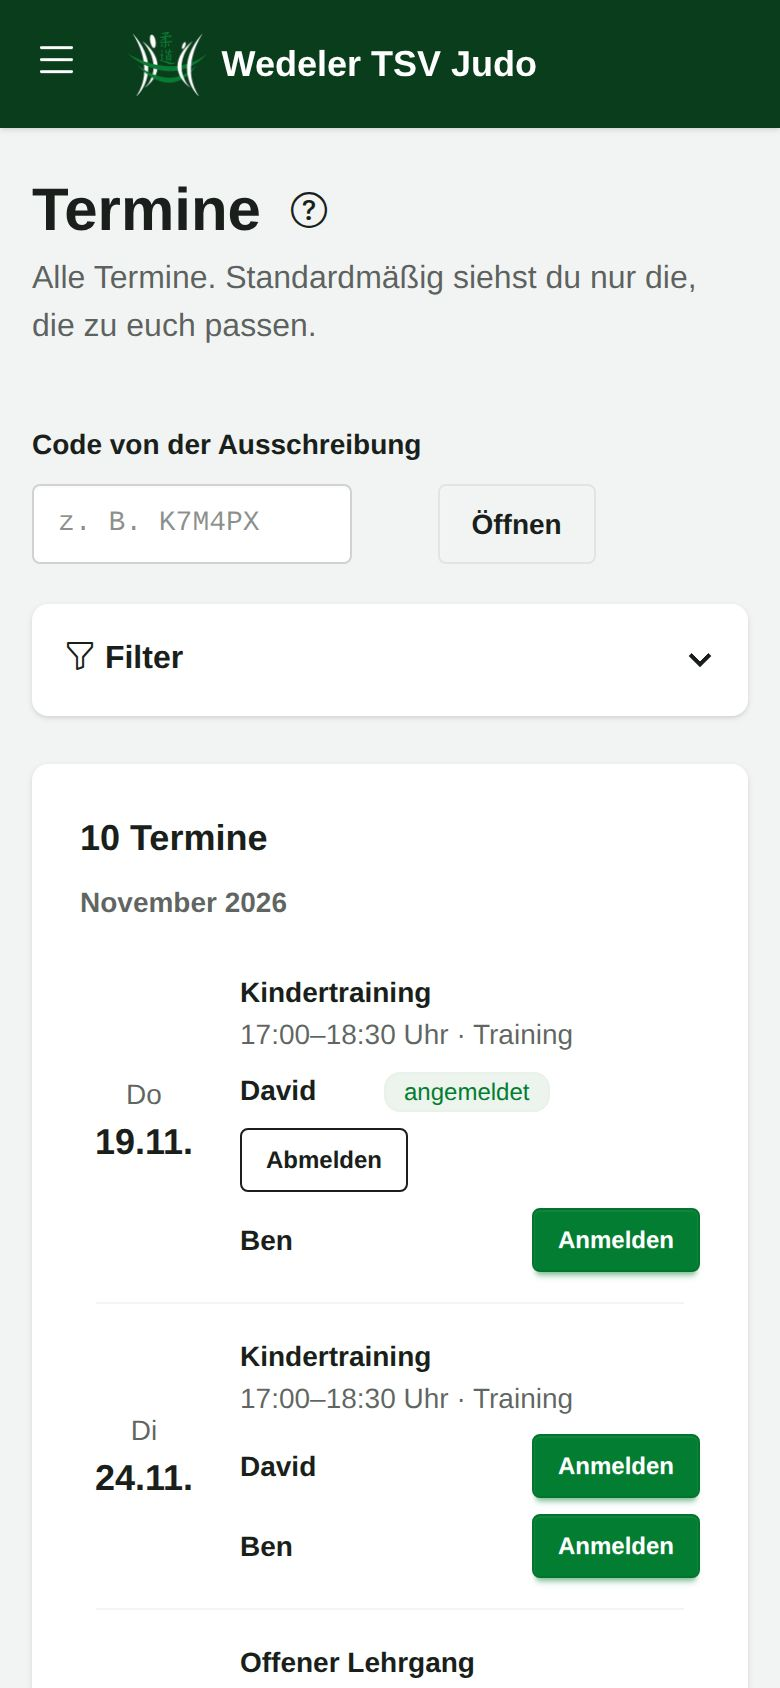
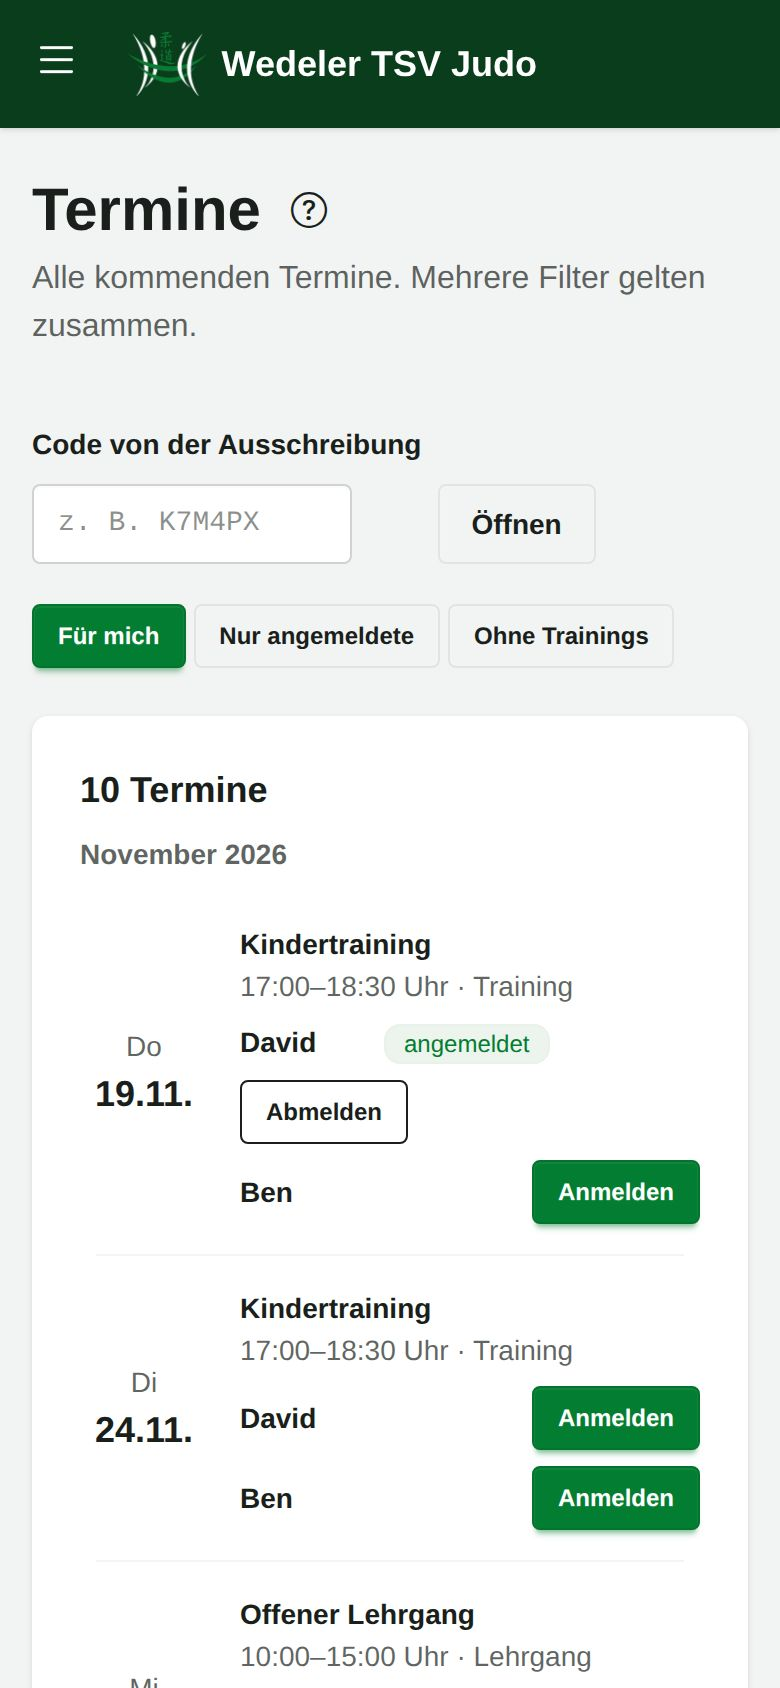
feat: Termine mit Filter-Knöpfen „Für mich“, „Nur angemeldete“ und „Ohne Trainings“
Die Filter stehen immer sichtbar als DaisyUI-Filter über der Liste statt in einer Klappbox und
gelten sofort; mehrere gelten zusammen (UND). Standard ist „Für mich“. Der Schnellzugang per Code
zeigt zusätzlich den Filter „Nur <Veranstaltung>“. Die bisherigen Felder (Mitglied, Art, Zeitraum,
offene Anmeldung, Abgesagte) entfallen. Hilfe und Screenshots angepasst.

Claude-Session: https://claude.ai/code/session_017LHgXea5AxfRcr57bsDwjB

diff --git a/portal/events/templates/events/agenda.html b/portal/events/templates/events/agenda.html
@@ -1,34 +1,23 @@
 {% extends "layouts/page.html" %}
-{% load help %}
+{% load help static %}
 {% block title %}Termine{% endblock %}
 {% block heading %}Termine{% endblock %}
 {% block heading_extra %}{% help_link "termine" %}{% endblock %}
 {% block more %}{% if can_plan_events %}<li><a href="{% url 'event_list' %}"><i class="bi bi-calendar3" aria-hidden="true"></i> Veranstaltungen</a></li>{% endif %}{% endblock %}
-{% block intro %}{% if agenda.has_members %}Alle Termine. Standardmäßig siehst du nur die, die zu {% if agenda.several %}euch{% else %}dir{% endif %} passen.{% else %}Alle Termine.{% endif %}{% endblock %}
+{% block intro %}Alle kommenden Termine.{% if agenda.has_members %} Mehrere Filter gelten zusammen.{% endif %}{% endblock %}
+{% block scripts %}<script src="{% static 'js/agenda.js' %}"></script>{% endblock %}
 {% block page %}
 <form method="get" action="{% url 'quick_link_form' %}" class="mb-4 flex flex-wrap items-end gap-2" role="search" aria-label="Termin per Code öffnen">
   <div class="fieldset"><label class="fieldset-legend text-sm" for="code">Code von der Ausschreibung</label><input class="input w-40 font-mono" id="code" name="code" type="text" autocomplete="off" autocapitalize="characters" spellcheck="false" maxlength="12" placeholder="z. B. K7M4PX" required></div>
   <button class="btn mb-1" type="submit">Öffnen</button>
 </form>
-<details class="collapse collapse-arrow mb-6 bg-base-100 shadow-sm"{% if form.errors %} open{% endif %}>
-  <summary class="collapse-title font-semibold"><i class="bi bi-funnel" aria-hidden="true"></i> Filter{% if form.changed_count %} <span class="badge badge-soft badge-primary badge-sm">{{ form.changed_count }} aktiv</span>{% endif %}</summary>
-  <div class="collapse-content">
-    <form method="get" class="flex flex-col gap-3">
-      <input type="hidden" name="f" value="1">
-      {% if form.non_field_errors %}<div role="alert" class="alert alert-soft alert-error">{{ form.non_field_errors|join:" " }}</div>{% endif %}
-      <div class="grid gap-x-4 sm:grid-cols-2 lg:grid-cols-3">
-        {% for field in form %}{% if field.widget_type != "checkbox" %}{{ field.as_field_group }}{% endif %}{% endfor %}
-      </div>
-      <div class="flex flex-wrap gap-x-6">
-        {% for field in form %}{% if field.widget_type == "checkbox" %}{{ field.as_field_group }}{% endif %}{% endfor %}
-      </div>
-      <div class="flex flex-wrap gap-2">
-        <button class="btn btn-primary" type="submit">Anzeigen</button>
-        {% if form.is_bound %}<a class="btn btn-ghost" href="{% url 'agenda' %}">Zurücksetzen</a>{% endif %}
-      </div>
-    </form>
+<form method="get" class="mb-6 flex flex-wrap items-center gap-2" data-auto-submit>
+  <input type="hidden" name="f" value="1">
+  <div class="filter" role="group" aria-label="Filter">
+    {% for chip in form.chips %}<input class="btn btn-sm" type="checkbox" name="{{ chip.name }}" value="{{ chip.value }}" aria-label="{{ chip.label }}"{% if chip.checked %} checked{% endif %}>{% endfor %}
   </div>
-</details>
+  <noscript><button class="btn btn-sm btn-primary" type="submit">Anwenden</button></noscript>
+</form>
 
 <section class="card bg-base-100 shadow-sm" aria-labelledby="h-termine"><div class="card-body">
   <h2 class="card-title" id="h-termine">{{ page.paginator.count }} Termin{{ page.paginator.count|pluralize:"e" }}</h2>
@@ -46,7 +35,7 @@
   </nav>
   {% endif %}
   {% elif form.is_bound %}<p class="text-base-content/70">Keine Termine für diese Filter.</p>
-  {% elif agenda.has_members %}<p class="text-base-content/70">Gerade keine passenden Termine. Im Filter kannst du dir auch die übrigen anzeigen lassen.</p>
+  {% elif agenda.has_members %}<p class="text-base-content/70">Gerade keine passenden Termine. Schalte „Für mich“ aus, um auch die übrigen zu sehen.</p>
   {% else %}<p class="text-base-content/70">Noch keine Termine.</p>{% endif %}
 </div></section>
 {% endblock %}

diff --git a/portal/help/templates/help/chapters/termine.html b/portal/help/templates/help/chapters/termine.html
@@ -6,14 +6,13 @@
 <p>Steht auf einer Ausschreibung ein Code (z. B. „K7M4PX“), gib ihn oben auf <a href="{% url 'agenda' %}">Termine</a> unter <strong>Code von der Ausschreibung</strong> ein und tippe auf <strong>Öffnen</strong>. Groß- und Kleinschreibung spielen keine Rolle. Du landest direkt beim Termin bzw. bei allen Terminen der Veranstaltung und kannst dich dort anmelden. Den Link oder QR-Code von der Ausschreibung kannst du auch direkt öffnen; ohne Anmeldung im Portal fragt es zuerst nach deinem Zugang.</p>
 
 <h2 id="filter">Filter</h2>
-<p>Über <strong>Filter</strong> oben auf der Seite grenzt du die Liste ein und tippst dann auf <strong>Anzeigen</strong>:</p>
+<p>Oben auf der Seite stehen die Filter. Ein Tipp schaltet einen Filter ein oder aus, die Liste passt sich sofort an. Mehrere Filter gelten zusammen.</p>
 <ul>
-  <li><strong>Nur passende Termine</strong>: Schalte das aus, um auch Termine zu sehen, die gerade nicht zu euch passen. Sie tragen die Markierung „passt nicht zur Zielgruppe“.</li>
-  <li><strong>Mitglied</strong> (bei mehreren Kindern), <strong>Art</strong> und <strong>Veranstaltung</strong>.</li>
-  <li><strong>Von</strong> und <strong>Bis</strong>: ein Zeitraum, auch in der Vergangenheit zum Nachsehen.</li>
-  <li><strong>Nur meine Anmeldungen</strong>, <strong>Nur mit offener Anmeldung</strong> und <strong>Abgesagte ausblenden</strong>.</li>
+  <li><strong>Für mich</strong> (Standard): Termine, die zu dir oder einem deiner Kinder passen (Alter, Graduierung …), und Termine, für die ihr eingetragen seid. Schalte ihn aus, um alle Termine zu sehen; nicht passende tragen die Markierung „passt nicht zur Zielgruppe“.</li>
+  <li><strong>Nur angemeldete</strong>: Termine, bei denen du oder eines deiner Kinder angemeldet, auf der Warteliste oder als Übungsleiter eingeteilt ist.</li>
+  <li><strong>Ohne Trainings</strong>: alle Termine außer Trainings, z. B. Wettkämpfe und Lehrgänge.</li>
 </ul>
-<p>Unten auf der Seite geht es mit <strong>Weitere Termine</strong> weiter. <strong>Zurücksetzen</strong> stellt die Filter wieder auf den Standard.</p>
+<p>Öffnest du eine Veranstaltung über ihren Code, kommt der Filter <strong>Nur …</strong> mit ihrem Namen dazu. Unten auf der Seite geht es mit <strong>Weitere Termine</strong> weiter.</p>
 
 <h2 id="anmelden">Anmelden</h2>
 <ol>

diff --git a/e2e/veranstaltungen.spec.ts b/e2e/veranstaltungen.spec.ts
@@ -114,13 +114,16 @@ test("Lehrgang anlegen, Übungsleiter eintragen, Kind mit Gewicht anmelden, Trai
   await expect(parent.getByRole("heading", { name: "Nächste Termine" })).toBeVisible();
   await parent.goto("/termine/");
   await expectNoA11yViolations(parent);
-  // Filter: standardmäßig nur passende Termine
-  await parent.locator("summary", { hasText: "Filter" }).click();
-  await expect(parent.getByLabel("Nur passende Termine")).toBeChecked();
+  // Filter: standardmäßig „Für mich“, weitere gelten zusammen und sofort
+  await expect(parent.getByRole("checkbox", { name: "Für mich" })).toBeChecked();
+  await parent.getByRole("checkbox", { name: "Nur angemeldete" }).check();
+  await expect(parent).toHaveURL(/angemeldet=1/);
+  await expect(parent.getByRole("checkbox", { name: "Für mich" })).toBeChecked();
+  await expect(parent.getByRole("checkbox", { name: "Nur angemeldete" })).toBeChecked();
+  await expect(parent.getByText("Keine Termine für diese Filter.")).toBeVisible();
   await expectNoA11yViolations(parent);
-  await parent.getByLabel("Abgesagte ausblenden").check();
-  await parent.getByRole("button", { name: "Anzeigen" }).click();
-  await expect(parent.getByText("1 aktiv")).toBeVisible();
+  await parent.getByRole("checkbox", { name: "Nur angemeldete" }).uncheck();
+  await expect(parent).not.toHaveURL(/angemeldet=1/);
   // Code von der Ausschreibung: alle Termine der Veranstaltung
   await parent.getByLabel("Code von der Ausschreibung").fill(code.toLowerCase());
   await parent.getByRole("button", { name: "Öffnen" }).click();

diff --git a/portal/static/js/agenda.js b/portal/static/js/agenda.js
@@ -1,0 +1,6 @@
+// Termine: Filter-Knöpfe gelten sofort. Ohne JavaScript gibt es den Knopf „Anwenden“.
+(() => {
+  for (const form of document.querySelectorAll("form[data-auto-submit]")) {
+    form.addEventListener("change", () => form.requestSubmit());
+  }
+})();

diff --git a/portal/events/forms.py b/portal/events/forms.py
@@ -1,6 +1,6 @@
 from __future__ import annotations
 
-from typing import Any, cast
+from typing import Any
 
 from django import forms
 from django.db import models
@@ -592,61 +592,46 @@ class GuestRegisterForm(GuestForm):
 
 
 class AgendaFilterForm(forms.Form):
-    """Filter der Seite „Termine“. Das versteckte Feld „f“ markiert ein abgeschicktes Formular; ohne gelten die
-    Standardwerte (für eigene Mitglieder: nur passende Termine)."""
+    """Filter der Seite „Termine“ als Filter-Knöpfe, die zusammen gelten (UND). Das versteckte Feld „f“ markiert ein
+    abgeschicktes Formular; ohne gilt der Standard (für eigene Mitglieder: „Für mich“)."""
 
-    passend = forms.BooleanField(label="Nur passende Termine", required=False, initial=True)
-    mitglied = forms.TypedChoiceField(label="Mitglied", required=False, coerce=int, empty_value=None)
-    art = forms.ModelChoiceField(label="Art", queryset=EventType.objects.all(), required=False, empty_label="alle")
-    veranstaltung = forms.ModelChoiceField(
-        label="Veranstaltung", queryset=Event.objects.order_by("title"), required=False, empty_label="alle"
-    )
-    von = forms.DateField(label="Von", required=False, widget=DateInput())
-    bis = forms.DateField(label="Bis", required=False, widget=DateInput())
-    meine = forms.BooleanField(label="Nur meine Anmeldungen", required=False)
-    offen = forms.BooleanField(label="Nur mit offener Anmeldung", required=False)
-    ohne_abgesagte = forms.BooleanField(label="Abgesagte ausblenden", required=False)
+    fuer_mich = forms.BooleanField(label="Für mich", required=False, initial=True)
+    angemeldet = forms.BooleanField(label="Nur angemeldete", required=False)
+    ohne_training = forms.BooleanField(label="Ohne Trainings", required=False)
+    veranstaltung = forms.ModelChoiceField(queryset=Event.objects.all(), required=False)
 
     def __init__(self, data: Any, *, links: list[Any]) -> None:
         super().__init__(data if data is not None and "f" in data else None)
         self.has_members = bool(links)
-        if len(links) > 1:
-            field = cast(forms.TypedChoiceField, self.fields["mitglied"])
-            field.choices = [("", "alle"), *((link.member.pk, link.member.first_name) for link in links)]
-        else:
-            del self.fields["mitglied"]
         if not links:
-            del self.fields["passend"], self.fields["meine"]
+            del self.fields["fuer_mich"], self.fields["angemeldet"]
 
-    def clean(self) -> dict[str, Any]:
-        data = super().clean() or {}
-        if data.get("von") and data.get("bis") and data["bis"] < data["von"]:
-            self.add_error("bis", "„Bis“ muss nach „Von“ liegen.")
-        return data
-
-    def to_filter(self) -> AgendaFilter:
-        if not self.is_bound or not self.is_valid():
-            return AgendaFilter(matching=self.has_members)
-        data = self.cleaned_data
-        return AgendaFilter(
-            matching=bool(data.get("passend")),
-            member=data.get("mitglied"),
-            event_type=data["art"].pk if data.get("art") else None,
-            event=data["veranstaltung"].pk if data.get("veranstaltung") else None,
-            start=data.get("von"),
-            end=data.get("bis"),
-            mine=bool(data.get("meine")),
-            open=bool(data.get("offen")),
-            hide_cancelled=bool(data.get("ohne_abgesagte")),
-        )
+    def _value(self, name: str) -> Any:
+        if not self.is_bound:
+            return self.fields[name].initial if self.has_members else None
+        return self.cleaned_data.get(name) if self.is_valid() else None
 
     @property
-    def changed_count(self) -> int:
-        """Wie viele Filter vom Standard abweichen (für die Zusammenfassung)."""
-        if not self.is_bound or not self.is_valid():
-            return 0
-        default = {"passend": self.has_members}
-        return sum(1 for name in self.fields if bool(self.cleaned_data.get(name)) != default.get(name, False))
+    def chips(self) -> list[dict[str, Any]]:
+        """Die Filter-Knöpfe mit Name, Wert, Beschriftung und ob sie gesetzt sind."""
+        chips = [
+            {"name": name, "value": "1", "label": self.fields[name].label, "checked": bool(self._value(name))}
+            for name in ("fuer_mich", "angemeldet", "ohne_training")
+            if name in self.fields
+        ]
+        event = self._value("veranstaltung")
+        if event:
+            chips.append({"name": "veranstaltung", "value": event.pk, "label": f"Nur {event}", "checked": True})
+        return chips
+
+    def to_filter(self) -> AgendaFilter:
+        event = self._value("veranstaltung")
+        return AgendaFilter(
+            matching=bool(self._value("fuer_mich")),
+            mine=bool(self._value("angemeldet")),
+            no_training=bool(self._value("ohne_training")),
+            event=event.pk if event else None,
+        )
 
 
 class AttachmentForm(forms.Form):

diff --git a/portal/events/services.py b/portal/events/services.py
@@ -1066,21 +1066,21 @@ class Agenda:
 
 @dataclass
 class AgendaFilter:
-    """Filter der Seite „Termine“. Ohne Zeitraum: alle kommenden Termine, so weit sie erzeugt sind."""
+    """Filter der Seite „Termine“; mehrere gelten zusammen (UND). Ohne Enddatum: alle kommenden Termine."""
 
-    matching: bool = True  # nur Termine, die zu einem eigenen Mitglied passen oder für die es eingetragen ist
-    member: int | None = None
-    event_type: int | None = None
-    event: int | None = None
-    start: date | None = None
+    matching: bool = True  # „Für mich“: passt zu einem eigenen Mitglied oder es ist eingetragen
+    mine: bool = False  # „Nur angemeldete“: ein eigenes Mitglied ist angemeldet, auf der Warteliste oder Übungsleiter
+    no_training: bool = False  # „Ohne Trainings“: alles außer der Veranstaltungsart „Training“
+    event: int | None = None  # nur diese Veranstaltung (Schnellzugang per Code)
     end: date | None = None
-    mine: bool = False  # nur eigene Anmeldungen und Einteilungen als Übungsleiter
-    open: bool = False  # nur Termine mit offener Anmeldung
     hide_cancelled: bool = False
 
 
+TRAINING = "Training"
+
+
 def occurrences(flt: AgendaFilter, now: datetime | None = None) -> QuerySet[Occurrence]:
-    """Termine nach Zeitraum, Art, Veranstaltung und Absage; die übrigen Filter brauchen die eigenen Mitglieder."""
+    """Kommende Termine nach Art, Veranstaltung und Absage; die übrigen Filter brauchen die eigenen Mitglieder."""
     now = now or timezone.now()
     rows = Occurrence.objects.select_related("event__event_type").prefetch_related(
         "event__target_groups__interests",
@@ -1088,12 +1088,11 @@ def occurrences(flt: AgendaFilter, now: datetime | None = None) -> QuerySet[Occu
         "participations__role",
         "participations__member",
     )
-    since = Q(starts_at__gte=_aware(flt.start, time.min)) if flt.start else Q(ends_at__gte=now)
-    rows = rows.filter(since)
+    rows = rows.filter(ends_at__gte=now)
     if flt.end:
         rows = rows.filter(starts_at__lt=_aware(flt.end + timedelta(days=1), time.min))
-    if flt.event_type:
-        rows = rows.filter(event__event_type_id=flt.event_type)
+    if flt.no_training:
+        rows = rows.exclude(event__event_type__name__iexact=TRAINING)
     if flt.event:
         rows = rows.filter(event_id=flt.event)
     if flt.hide_cancelled:
@@ -1110,7 +1109,7 @@ def agenda(user: Any, flt: AgendaFilter | None = None) -> Agenda:
     flt = flt or AgendaFilter()
     ensure_generated()
     links = members.effective_links(user)
-    shown = [link for link in links if flt.member is None or link.member.pk == flt.member] or links
+    shown = links
     rows = list(occurrences(flt))
     participations = {
         (p.occurrence_id, p.member_id): p
@@ -1122,8 +1121,6 @@ def agenda(user: Any, flt: AgendaFilter | None = None) -> Agenda:
     result = Agenda(several=len(shown) > 1, has_members=bool(links))
     for occurrence in rows:
         state = window(occurrence)
-        if flt.open and (occurrence.is_cancelled or state != "open"):
-            continue
         entry = AgendaEntry(occurrence)
         for link in shown:
             member = link.member

diff --git a/portal/events/tests/test_registration.py b/portal/events/tests/test_registration.py
@@ -211,8 +211,6 @@ def test_agenda_lists_each_occurrence_once_for_two_children(parent, child):
     everything = services.agenda(parent, services.AgendaFilter(matching=False))
     assert [e.occurrence.event.title for e in everything.entries] == ["Kindertraining", "Erwachsenentraining"]
     assert not any(row.item.can_register for row in everything.entries[1].rows)
-    only_ole = services.agenda(parent, services.AgendaFilter(member=sibling.pk))
-    assert not only_ole.several and [row.member for row in only_ole.entries[0].rows] == [sibling]
 
 
 def test_agenda_shows_all_upcoming_not_only_six_weeks(parent, child):
@@ -228,20 +226,23 @@ def test_agenda_filters(parent, child):
     cancelled = make_occurrence(training, in_days=4)
     services.cancel(cancelled, notify=False)
     closed = make_occurrence(contest, in_days=6, registration_closes_at=timezone.now())
-    past = make_occurrence(training, in_days=-10)
+    adults = Event.objects.create(title="Erwachsene", event_type=event_type("Wettkampf"))
+    TargetGroup.objects.create(event=adults, min_age=18)
+    other = make_occurrence(adults, in_days=8)
+    make_occurrence(training, in_days=-10)
     services.register(mine, child, parent)
 
     def titles(**kwargs):
         return [e.occurrence for e in services.agenda(parent, services.AgendaFilter(**kwargs)).entries]
 
-    assert titles() == [mine, cancelled, closed]
-    assert titles(event_type=event_type("Wettkampf").pk) == [closed]
+    assert titles() == [mine, cancelled, closed]  # „Für mich“
+    assert titles(matching=False) == [mine, cancelled, closed, other]
     assert titles(event=training.pk) == [mine, cancelled]
     assert titles(hide_cancelled=True) == [mine, closed]
-    assert titles(mine=True) == [mine]
-    assert titles(open=True) == [mine]
-    today = timezone.localdate()
-    assert titles(start=today - timedelta(days=11), end=today - timedelta(days=9)) == [past]
+    assert titles(mine=True) == [mine]  # „Nur angemeldete“
+    assert titles(no_training=True) == [closed]  # „Ohne Trainings“
+    assert titles(matching=False, no_training=True) == [closed, other]
+    assert titles(mine=True, no_training=True) == []  # UND
 
 
 def test_agenda_without_own_members_lists_everything(head):

diff --git a/portal/events/tests/test_views.py b/portal/events/tests/test_views.py
@@ -59,12 +59,14 @@ def test_agenda_filter_form(client, parent, child):
     page = response.content.decode()
     assert "34 Termine" in page and "Weitere Termine" in page
     assert all(e.occurrence.event != adults for e in response.context["page"].object_list)
-    assert re.search(r'name="passend"[^>]*checked', page)  # „Nur passende“ ist vorausgewählt
+    assert re.search(r'name="fuer_mich"[^>]*checked', page)  # „Für mich“ ist vorausgewählt
+    assert 'class="filter"' in page and 'aria-label="Ohne Trainings"' in page and "<details" not in page
     page = client.get(reverse("agenda"), {"f": "1"}).content.decode()
     assert "35 Termine" in page and "Mia gehört leider nicht zur Zielgruppe dieses Termins" in page
+    assert not re.search(r'name="fuer_mich"[^>]*checked', page)
     assert "Frühere" in client.get(reverse("agenda"), {"f": "1", "seite": "2"}).content.decode()
-    page = client.get(reverse("agenda"), {"f": "1", "passend": "on", "von": "2030-02-01", "bis": "2030-01-01"})
-    assert "„Bis“ muss nach „Von“ liegen." in page.content.decode()
+    page = client.get(reverse("agenda"), {"f": "1", "veranstaltung": adults.pk}).content.decode()
+    assert "1 Termin<" in page and 'aria-label="Nur Erwachsenentraining" checked' in page
 
 
 def test_register_form_with_weight(client, parent, child):
